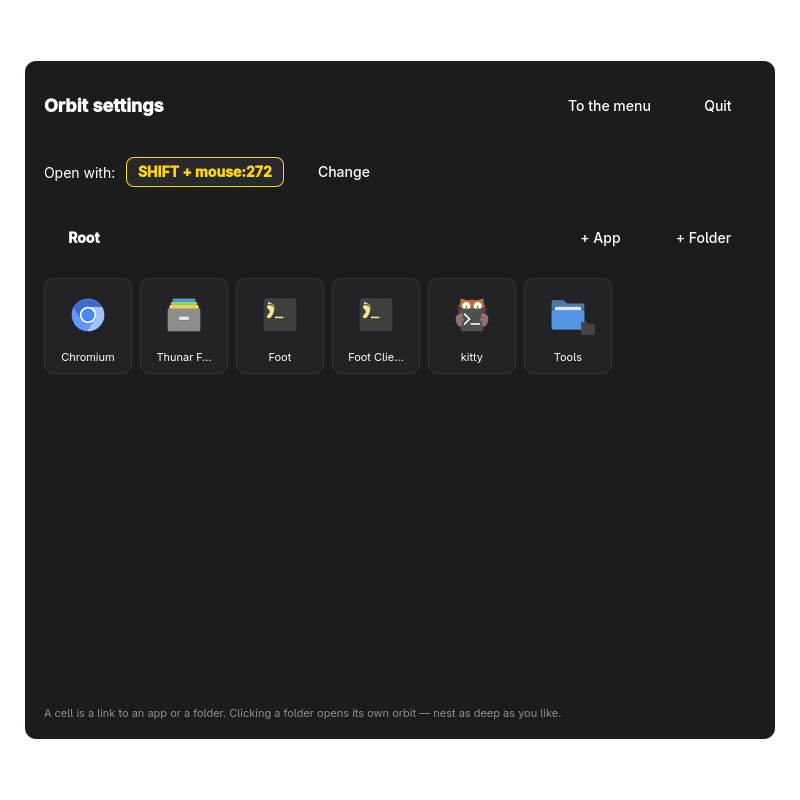
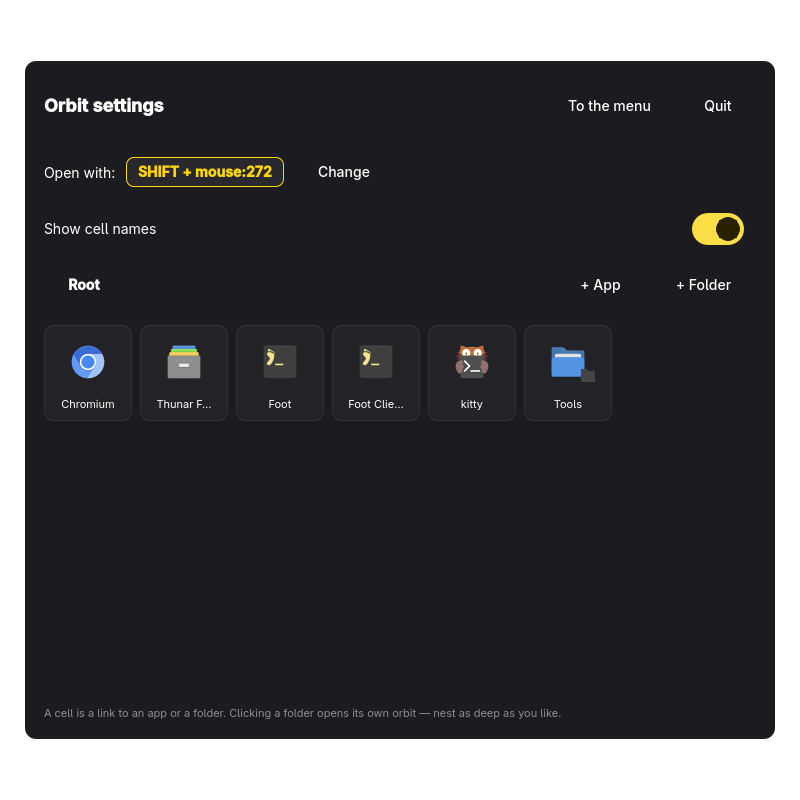
fix: иконки в живой сессии + возврат переключателя подписей
- ensureUsableTheme(): если сессия называет несуществующую тему (gsettings часто хранит остаток вроде Yaru-magenta), Qt отвечал null на любой запрос, включая fallback, — кольцо было из пустых кругов; теперь ставится первая установленная тема с index.theme;
- возвращён showNames: чтение из config.json (и legacy settings.showNames), сохранение, переключатель в настройках; setActivation больше не теряет ключ при записи конфига;
- ensureHyprlandIntegration сравнивает по trim — без перезаписи и reload на каждом запуске, когда меняется только пустая строка в конце файла;
- тесты: 15 (сохранение showNames, legacy-ключ);
- скриншоты обновлены.

diff --git a/src/SettingsPage.qml b/src/SettingsPage.qml
@@ -104,6 +104,20 @@ Page {
                 }
             }
 
+            // ── Cell names ────────────────────────────────────────────
+            RowLayout {
+                Layout.fillWidth: true
+                Label {
+                    Layout.fillWidth: true
+                    text: qsTr("Show cell names")
+                    color: Material.foreground
+                }
+                Switch {
+                    checked: backend.showNames
+                    onToggled: backend.setShowNames(checked)
+                }
+            }
+
             // ── Menu editor ───────────────────────────────────────────
             RowLayout {
                 Layout.fillWidth: true

diff --git a/src/OverlayRoot.qml b/src/OverlayRoot.qml
@@ -240,6 +240,7 @@ Item {
                         }
                     }
                     Label {
+                        visible: backend.showNames
                         anchors.horizontalCenter: parent.horizontalCenter
                         y: root.cellSize + 10
                         width: root.cellSize + 16

diff --git a/src/backend.cpp b/src/backend.cpp
@@ -54,7 +54,7 @@ Backend::Backend(const QString &configDirectory, const QString &bindingsFile, co
         ensureDefaultMenu();
         save();
     }
-    loadHotkey();
+    loadConfig();
     // Write the default Shift+LMB bind and the window rules on first run.
     ensureHyprlandIntegration();
 }
@@ -414,9 +414,9 @@ void Backend::moveItem(int index, int delta) {
     emit itemsChanged();
 }
 
-// ------------------------------------------------------------------ hotkey
+// ------------------------------------------------------------------ config
 
-void Backend::loadHotkey() {
+void Backend::loadConfig() {
     QFile file(m_configDirectory + "/config.json");
     if (file.open(QIODevice::ReadOnly)) {
         const QJsonObject object = QJsonDocument::fromJson(file.readAll()).object();
@@ -424,11 +424,31 @@ void Backend::loadHotkey() {
         for (const QJsonValue &value : object.value("mods").toArray())
             m_mods.append(value.toString());
         m_key = object.value("key").toString();
+        // "showNames" at the top level; older builds kept it under "settings".
+        if (object.contains("showNames"))
+            m_showNames = object.value("showNames").toBool();
+        else {
+            const QJsonObject legacy = object.value("settings").toObject();
+            if (legacy.contains("showNames"))
+                m_showNames = legacy.value("showNames").toBool();
+        }
     }
     if (m_mods.isEmpty() && m_key.isEmpty()) {
         m_mods = {"SHIFT"};
         m_key = "mouse:272";
     }
+}
+
+void Backend::saveConfig() {
+    QFile file(m_configDirectory + "/config.json");
+    if (!file.open(QIODevice::WriteOnly))
+        return;
+    QJsonArray modsArray;
+    for (const QString &mod : m_mods)
+        modsArray.append(mod);
+    file.write(QJsonDocument(QJsonObject{{"mods", modsArray},
+                                         {"key", m_key},
+                                         {"showNames", m_showNames}}).toJson());
 }
 
 QString Backend::activationCombo() const {
@@ -462,7 +482,7 @@ void Backend::ensureHyprlandIntegration() {
         QRegularExpression::DotMatchesEverythingOption);
     const QString cleaned = contents.replace(blockRemoval, "");
     const QString updated = cleaned.trimmed() + "\n\n" + hyprlandBlock() + "\n";
-    if (updated == contents)
+    if (updated.trimmed() == contents.trimmed())
         return;
     if (file.open(QIODevice::WriteOnly | QIODevice::Truncate)) {
         file.write(updated.toUtf8());
@@ -475,15 +495,17 @@ void Backend::setActivation(const QStringList &mods, const QString &key) {
         return;
     m_mods = mods;
     m_key = key;
-    QFile file(m_configDirectory + "/config.json");
-    if (file.open(QIODevice::WriteOnly)) {
-        QJsonArray modsArray;
-        for (const QString &mod : mods)
-            modsArray.append(mod);
-        file.write(QJsonDocument(QJsonObject{{"mods", modsArray}, {"key", key}}).toJson());
-    }
+    saveConfig();
     emit hotkeyChanged();
     ensureHyprlandIntegration();
+}
+
+void Backend::setShowNames(bool show) {
+    if (show == m_showNames)
+        return;
+    m_showNames = show;
+    saveConfig();
+    emit hotkeyChanged();
 }
 
 void Backend::reloadHyprland() {

diff --git a/src/backend.h b/src/backend.h
@@ -28,6 +28,9 @@ class Backend : public QObject {
     // Activation hotkey, e.g. "SHIFT + mouse:272".
     Q_PROPERTY(QString activationCombo READ activationCombo NOTIFY hotkeyChanged)
 
+    // Whether the ring draws cell names under the icons.
+    Q_PROPERTY(bool showNames READ showNames WRITE setShowNames NOTIFY hotkeyChanged)
+
 public:
     // Config/menu directory, Hyprland bindings file, hyprctl and the
     // .desktop search paths are injectable, so tests run off real user files.
@@ -45,6 +48,7 @@ public:
     QString currentName() const;
     QStringList breadcrumb() const;
     QString activationCombo() const;
+    bool showNames() const { return m_showNames; }
 
     // Called by main.cpp once the window exists: sizes it to the monitor the
     // pointer is on, shows it, and moves it there through Hyprland (Wayland
@@ -71,6 +75,7 @@ public:
     // Applies a new activation hotkey: rewrites the managed block in the
     // Hyprland bindings file and reloads the compositor config.
     Q_INVOKABLE void setActivation(const QStringList &mods, const QString &key);
+    Q_INVOKABLE void setShowNames(bool show);
 
     // The managed Lua block, also exercised by tests.
     QString hyprlandBlock() const;
@@ -93,9 +98,10 @@ private:
     void load();
     void ensureDefaultMenu();
     void scanApplications();
-    void loadHotkey();
+    void loadConfig();
     void ensureHyprlandIntegration();
     void reloadHyprland();
+    void saveConfig();
 
     QString m_configDirectory;
     QString m_bindingsFile;
@@ -105,6 +111,7 @@ private:
     QVariantList m_apps;     // installed applications
     QStringList m_mods;      // hotkey modifiers, e.g. ["SHIFT"]
     QString m_key;           // hotkey key, e.g. "mouse:272"
+    bool m_showNames = true; // cell labels under the icons
     QString m_currentPath;   // "" = root, "2.0" = third item's first child
 
     int m_monitorWidth = 1280;

diff --git a/src/iconprovider.cpp b/src/iconprovider.cpp
@@ -1,10 +1,36 @@
 #include "iconprovider.h"
 
+#include <QFileInfo>
 #include <QIcon>
 #include <QPainter>
 #include <QPainterPath>
 #include <QPixmap>
 #include <QUrl>
+
+#include <algorithm>
+
+// The session may name an icon theme that is not installed — gsettings often
+// carries a leftover from another desktop — and Qt then answers null for every
+// lookup, even the generic fallback, so the ring fills with blank cells. When
+// the selected theme ships no index.theme anywhere on the search path, point
+// Qt at one that does.
+void IconProvider::ensureUsableTheme() {
+    const auto paths = QIcon::themeSearchPaths();
+    const auto installed = [&paths](const QString &theme) {
+        return std::any_of(paths.cbegin(), paths.cend(), [&theme](const QString &dir) {
+            return QFileInfo::exists(dir + '/' + theme + "/index.theme");
+        });
+    };
+    if (installed(QIcon::themeName()))
+        return;
+    for (const QString &theme : {QStringLiteral("hicolor"), QStringLiteral("Adwaita"),
+                                 QStringLiteral("breeze-dark"), QStringLiteral("breeze")}) {
+        if (installed(theme)) {
+            QIcon::setThemeName(theme);
+            return;
+        }
+    }
+}
 
 QPixmap IconProvider::requestPixmap(const QString &id, QSize *size, const QSize &requestedSize)
 {

diff --git a/tests/orbit_tests.cpp b/tests/orbit_tests.cpp
@@ -110,6 +110,32 @@ private slots:
         QVERIFY(backend.searchApplications("foo").size() == 1);
     }
 
+    void keepsShowNamesSetting()
+    {
+        QTemporaryDir dir;
+        Backend backend(dir.path(), dir.path() + "/bindings.lua", {}, {});
+        QVERIFY(backend.showNames()); // default is on
+
+        backend.setShowNames(false);
+        QCOMPARE(backend.showNames(), false);
+
+        // The hotkey survives the names toggle, and both load back together.
+        backend.setActivation({"SUPER"}, "O");
+        Backend reloaded(dir.path(), dir.path() + "/bindings.lua", {}, {});
+        QCOMPARE(reloaded.showNames(), false);
+        QCOMPARE(reloaded.activationCombo(), QString("SUPER + O"));
+    }
+
+    void readsLegacyShowNames()
+    {
+        QTemporaryDir dir;
+        write(dir.path() + "/config.json",
+              R"({"settings": {"showNames": false}, "key": "F9", "mods": []})");
+        Backend backend(dir.path(), dir.path() + "/bindings.lua", {}, {});
+        QCOMPARE(backend.showNames(), false);
+        QCOMPARE(backend.activationCombo(), QString("F9"));
+    }
+
     void writesTheHotkeyBlock()
     {
         QTemporaryDir dir;

diff --git a/src/iconprovider.h b/src/iconprovider.h
@@ -9,7 +9,12 @@
 
 class IconProvider : public QQuickImageProvider {
 public:
-    explicit IconProvider() : QQuickImageProvider(QQuickImageProvider::Pixmap) {}
+    explicit IconProvider() : QQuickImageProvider(QQuickImageProvider::Pixmap) { ensureUsableTheme(); }
 
     QPixmap requestPixmap(const QString &id, QSize *size, const QSize &requestedSize) override;
+
+private:
+    // Pins Qt to a theme that actually exists, so lookups never all come back
+    // null on a session whose icon theme is missing.
+    static void ensureUsableTheme();
 };
